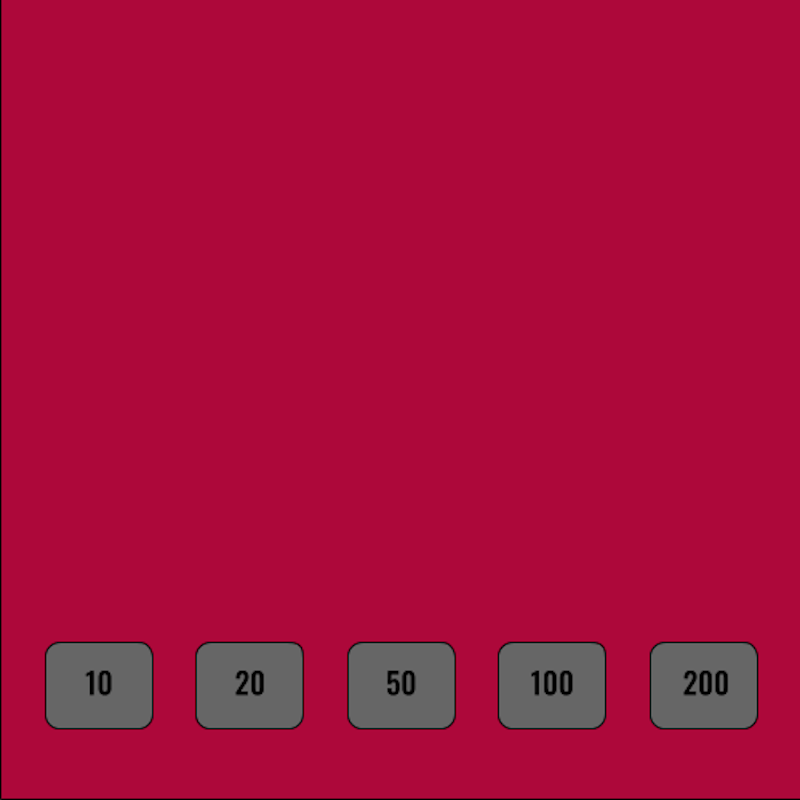
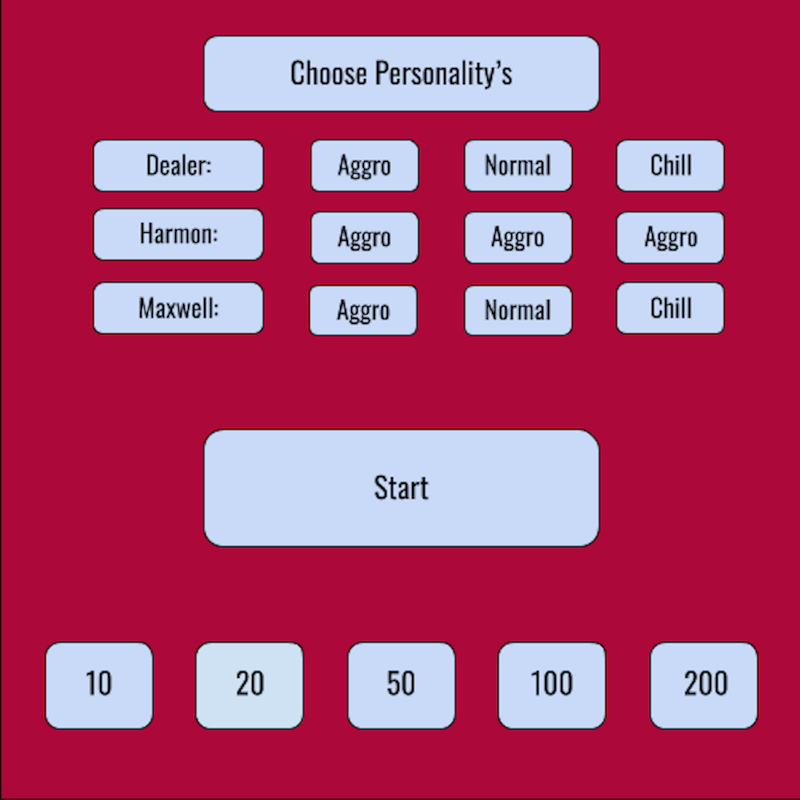
Updated GUI + Computer Players

diff --git a/main.py b/main.py
@@ -1,9 +1,7 @@
 #stuff to add
 #win if player has 5 cards
-#display the fith cards(ordering might be fucked?)
-#opening screen
-#dealer personalities
-#players + personalities
+#display the fith cards
+#personalities
 from card import Card
 from hand import Hand
 from time import sleep
@@ -24,20 +22,23 @@ betImg = pygame.image.load("bet.png")
 cardTemplate = pygame.image.load("card.png")
 openingImg = pygame.image.load("opening.png")
 bg = mainImg
-cardTemplateY = 142.03/2
-cardTemplateX = 87.885/2
+cardTemplateY = 113.1165/2
+cardTemplateX = 70.0245/2
 
 #default options
 shuffle_count = 100000
 deck_size = 8
 hands = []
 dealerLimit = 18
+harmonLimit = 20
+maxwellLimit = 16
 bet = 0
 game = True
 opening = True
+currentEvent = "Your Turn!"
 money = 1000
 currentHand = 0
-fontObject = pygame.font.SysFont("freesansbold.ttf", 60)
+fontObject = pygame.font.SysFont("freesansbold.ttf", 50)
 
 deck = []
 suits = ["S","C","H","D"]
@@ -57,10 +58,6 @@ def createDeck():
 
 
 def shuffle(deck):
-    # Note: Python has a random.shuffle() function that
-    #       could also be used, however there is much
-    #       less control over iterations
-
     global shuffle_count
 
     for i in range(shuffle_count):
@@ -72,7 +69,7 @@ def shuffle(deck):
         deck[y] = temp
 
 
-#text write func taken from stackoverflow 
+#text write function taken from stackoverflow 
 #at https://stackoverflow.com/questions/45586690/pygame-text-function
 def textWrite(text, size, color, x, y):
     textSurface = fontObject.render(text, True, color)
@@ -84,21 +81,24 @@ def textWrite(text, size, color, x, y):
 def redrawWindow():
     global money
     #general
+    win.fill((0,0,0))
     win.blit(bg, [0, 0])
+    textWrite(currentEvent, 60, (255,255,255), 150, 40)
     #dealer
     textWrite("Dealer", 60, (255,255,255), 400, 40)
-    showCards(1, 160)
-    #textWrite(str(hands[1].printHand()).strip("[]"), 60, (255,255,255), 400, 100)
-    #textWrite("Value: " + str(hands[1].getHandValue()), 60, (255,255,255), 400, 160)
+    showCards(1, 160, 0)
     #player
-    #textWrite(str(hands[0].printHand()).strip("[]"), 60, (255,255,255), 400, 540)
-    #textWrite("Value: " + str(hands[0].getHandValue()), 60, (255,255,255), 400, 600)
     textWrite("Cash: " + str(money), 60, (255,255,255), 650, 40)
-    showCards(0, 550)
+    showCards(0, 580, 0)
+    #other players
+    showCards(2, 320, 225)
+    showCards(3, 320, -225)
     #split hand
     if hands[0].hasSplit == True:
-        showCards(-1, 400)
+        showCards(-1, 450, 0)
+    #general events
     playerEvent()
+    #update screen
     pygame.display.update()
 
 
@@ -108,7 +108,8 @@ def playerEvent():
     global currentHand
     #bust
     if  hands[currentHand].bust == True:
-        textWrite("Bust!", 60, (255,255,255), 400, 310)
+        currentEvent = "Bust!"
+        textWrite(currentEvent, 60, (255,255,255), 150, 40)
         pygame.display.update()
         sleep(2)
         money = money - bet
@@ -117,7 +118,7 @@ def playerEvent():
                 hands[0].hasSplit = False
             currentHand = 0
             makeBet()
-            resetDeck(2)
+            resetDeck(4)
             startHand()
         else:
             currentHand = -1
@@ -127,38 +128,51 @@ def playerEvent():
         if hands[currentHand].hasSplit == True:
             currentHand = -1
             hands[0].stand = False
-            textWrite("Stand!", 60, (255,255,255), 400, 310)
-            sleep(2)
-        elif hands[0].hasSplit == False or currentHand == -1:
-            textWrite("Dealer's Turn!", 60, (255,255,255), 400, 270)
+            currentEvent = "Stand!"
+            textWrite(currentEvent, 60, (255,255,255), 150, 40)
             pygame.display.update()
             sleep(2)
-            if hands[1].multipleHits(dealerLimit) == True:
+        elif hands[0].hasSplit == False or currentHand == -1:
+            currentEvent = "Dealer's Turn!"
+            textWrite(currentEvent, 60, (255,255,255), 150, 70)
+            pygame.display.update()
+            sleep(2)
+            if hands[2].multipleHits(harmonLimit) == True:
+                    hands[2].addCard(deck[0])
+                    deck.pop(0)
+            elif hands[3].multipleHits(maxwellLimit) == True:
+                    hands[3].addCard(deck[0])
+                    deck.pop(0)
+            elif hands[1].multipleHits(dealerLimit) == True:
                     hands[1].addCard(deck[0])
                     deck.pop(0)
             else:
                 #win
                 if hands[currentHand].getHandValue() > hands[1].getHandValue() or hands[1].getHandValue() > 21:
-                    textWrite("You Win!", 60, (255,255,255), 400, 310)
+                    currentEvent = "You Win!"
+                    textWrite(currentEvent, 60, (255,255,255), 150, 100)
                     money = money + bet
                 #lose
                 elif hands[currentHand].getHandValue() < hands[1].getHandValue() and hands[1].getHandValue() < 22:
-                    textWrite("You Lose!", 60, (255,255,255), 400, 310)
+                    currentEvent = "You Lose!"
+                    textWrite(currentEvent, 60, (255,255,255), 150, 100)
                     money = money - bet
                 #tie
                 else:
-                    textWrite("Tie!", 60, (255,255,255), 400, 310)
+                    currentEvent = "Tie!"
+                    textWrite(currentEvent, 60, (255,255,255), 150, 100)
                 pygame.display.update()
                 hands[currentHand].stand = False
                 currentHand = 0
                 sleep(2)
                 makeBet()
-                resetDeck(2)
+                resetDeck(4)
                 startHand()
                 hands[currentHand].stand = False
     #forfeit
     if hands[currentHand].forfeit == True:
-        textWrite("Forfeit!", 60, (255,255,255), 400, 310)
+        currentEvent = "Forfeit!"
+        textWrite(currentEvent, 60, (255,255,255), 150, 40)
         money = money - bet/2
         pygame.display.update()
         sleep(2)
@@ -167,13 +181,13 @@ def playerEvent():
             currentHand = -1
         else:
             currentHand = 0
-            resetDeck(2)
+            resetDeck(4)
             startHand()
             makeBet()
-        
     #double
     if hands[currentHand].double == True:
-        textWrite("Double!", 60, (255,255,255), 400, 310)
+        currentEvent = "Double!"
+        textWrite(currentEvent, 60, (255,255,255), 150, 40)
         bet = bet*2
         hands[currentHand].addCard(deck[0])
         deck.pop(0)
@@ -185,7 +199,8 @@ def playerEvent():
     #split
     if hands[0].hasSplit == False:
         if hands[0].split == True:
-            textWrite("Split!", 60, (255,255,255), 400, 310)
+            currentEvent = "Split!"
+            textWrite(currentEvent, 60, (255,255,255), 150, 40)
             pygame.display.update()
             sleep(2)
             hands.append(Hand())
@@ -195,6 +210,7 @@ def playerEvent():
             hands[0].split = False
 
 
+#function for input events in pygame
 def input(eventtype, event, x1, x2, y1 ,y2):
     mx, my = pygame.mouse.get_pos()
     keys = pygame.key.get_pressed()
@@ -204,6 +220,7 @@ def input(eventtype, event, x1, x2, y1 ,y2):
                 return True
 
 
+#reset the deck
 def resetDeck(number):
     hands.clear()
     deck.clear()
@@ -213,6 +230,7 @@ def resetDeck(number):
         hands.append(Hand())
 
 
+#creates hands for each deck
 def startHand():
     for hand in hands:
         for i in range(2):
@@ -220,10 +238,10 @@ def startHand():
             deck.pop(0)
 
 
+#make a bet
 def makeBet():
     global bet
     win.blit(betImg, [0, 0])
-    textWrite("Make Your Bet!", 60, (255,255,255), 400, 460)
     chooseBet = True
     pygame.display.update()
     
@@ -260,33 +278,33 @@ def makeBet():
                 chooseBet = False
 
 
-def showCards(handNum, cardY):
+def showCards(handNum, cardY, center):
     cardAmount = len(hands[handNum].cards)
     hands[handNum].printHand()
     if cardAmount == 1:
-        win.blit(cardTemplate, (400-cardTemplateX,cardY-cardTemplateY))
+        win.blit(cardTemplate, (400-cardTemplateX-center,cardY-cardTemplateY))
         textWrite(str(hands[handNum].hand[0]), 50, (0,0,0), 400, cardY)
     if cardAmount == 2:
-        win.blit(cardTemplate, (350-cardTemplateX,cardY-cardTemplateY))
-        win.blit(cardTemplate, (450-cardTemplateX,cardY-cardTemplateY))
-        textWrite(str(hands[handNum].hand[0]), 50, (0,0,0), 350, cardY)
-        textWrite(str(hands[handNum].hand[1]), 50, (0,0,0), 450, cardY)
+        win.blit(cardTemplate, (355-cardTemplateX-center,cardY-cardTemplateY))
+        win.blit(cardTemplate, (445-cardTemplateX-center,cardY-cardTemplateY))
+        textWrite(str(hands[handNum].hand[0]), 50, (0,0,0), 355-center, cardY)
+        textWrite(str(hands[handNum].hand[1]), 50, (0,0,0), 445-center, cardY)
     elif cardAmount == 3:
-        win.blit(cardTemplate, (300-cardTemplateX,cardY-cardTemplateY))
-        win.blit(cardTemplate, (400-cardTemplateX,cardY-cardTemplateY))
-        win.blit(cardTemplate, (500-cardTemplateX,cardY-cardTemplateY))
-        textWrite(str(hands[handNum].hand[0]), 50, (0,0,0), 300, cardY)
-        textWrite(str(hands[handNum].hand[1]), 50, (0,0,0), 400, cardY)
-        textWrite(str(hands[handNum].hand[2]), 50, (0,0,0), 500, cardY)
+        win.blit(cardTemplate, (310-cardTemplateX-center,cardY-cardTemplateY))
+        win.blit(cardTemplate, (400-cardTemplateX-center,cardY-cardTemplateY))
+        win.blit(cardTemplate, (490-cardTemplateX-center,cardY-cardTemplateY))
+        textWrite(str(hands[handNum].hand[0]), 50, (0,0,0), 310-center, cardY)
+        textWrite(str(hands[handNum].hand[1]), 50, (0,0,0), 400-center, cardY)
+        textWrite(str(hands[handNum].hand[2]), 50, (0,0,0), 490-center, cardY)
     elif cardAmount == 4:
-        win.blit(cardTemplate, (250-cardTemplateX,cardY-cardTemplateY))
-        win.blit(cardTemplate, (350-cardTemplateX,cardY-cardTemplateY))
-        win.blit(cardTemplate, (450-cardTemplateX,cardY-cardTemplateY))
-        win.blit(cardTemplate, (550-cardTemplateX,cardY-cardTemplateY))
-        textWrite(str(hands[handNum].hand[0]), 50, (0,0,0), 250, cardY)
-        textWrite(str(hands[handNum].hand[1]), 50, (0,0,0), 350, cardY)
-        textWrite(str(hands[handNum].hand[2]), 50, (0,0,0), 450, cardY)
-        textWrite(str(hands[handNum].hand[2]), 50, (0,0,0), 550, cardY)
+        win.blit(cardTemplate, (265-cardTemplateX-center,cardY-cardTemplateY))
+        win.blit(cardTemplate, (355-cardTemplateX-center,cardY-cardTemplateY))
+        win.blit(cardTemplate, (445-cardTemplateX-center,cardY-cardTemplateY))
+        win.blit(cardTemplate, (535-cardTemplateX-center,cardY-cardTemplateY))
+        textWrite(str(hands[handNum].hand[0]), 50, (0,0,0), 265-center, cardY)
+        textWrite(str(hands[handNum].hand[1]), 50, (0,0,0), 355-center, cardY)
+        textWrite(str(hands[handNum].hand[2]), 50, (0,0,0), 445-center, cardY)
+        textWrite(str(hands[handNum].hand[2]), 50, (0,0,0), 535-center, cardY)
 
 
 while opening == True:
@@ -306,7 +324,7 @@ while opening == True:
         if input(pygame.MOUSEBUTTONDOWN, event, 300, 500, 300, 500) == True:
             opening = False
 
-resetDeck(2)
+resetDeck(4)
 startHand()
 makeBet()
 
